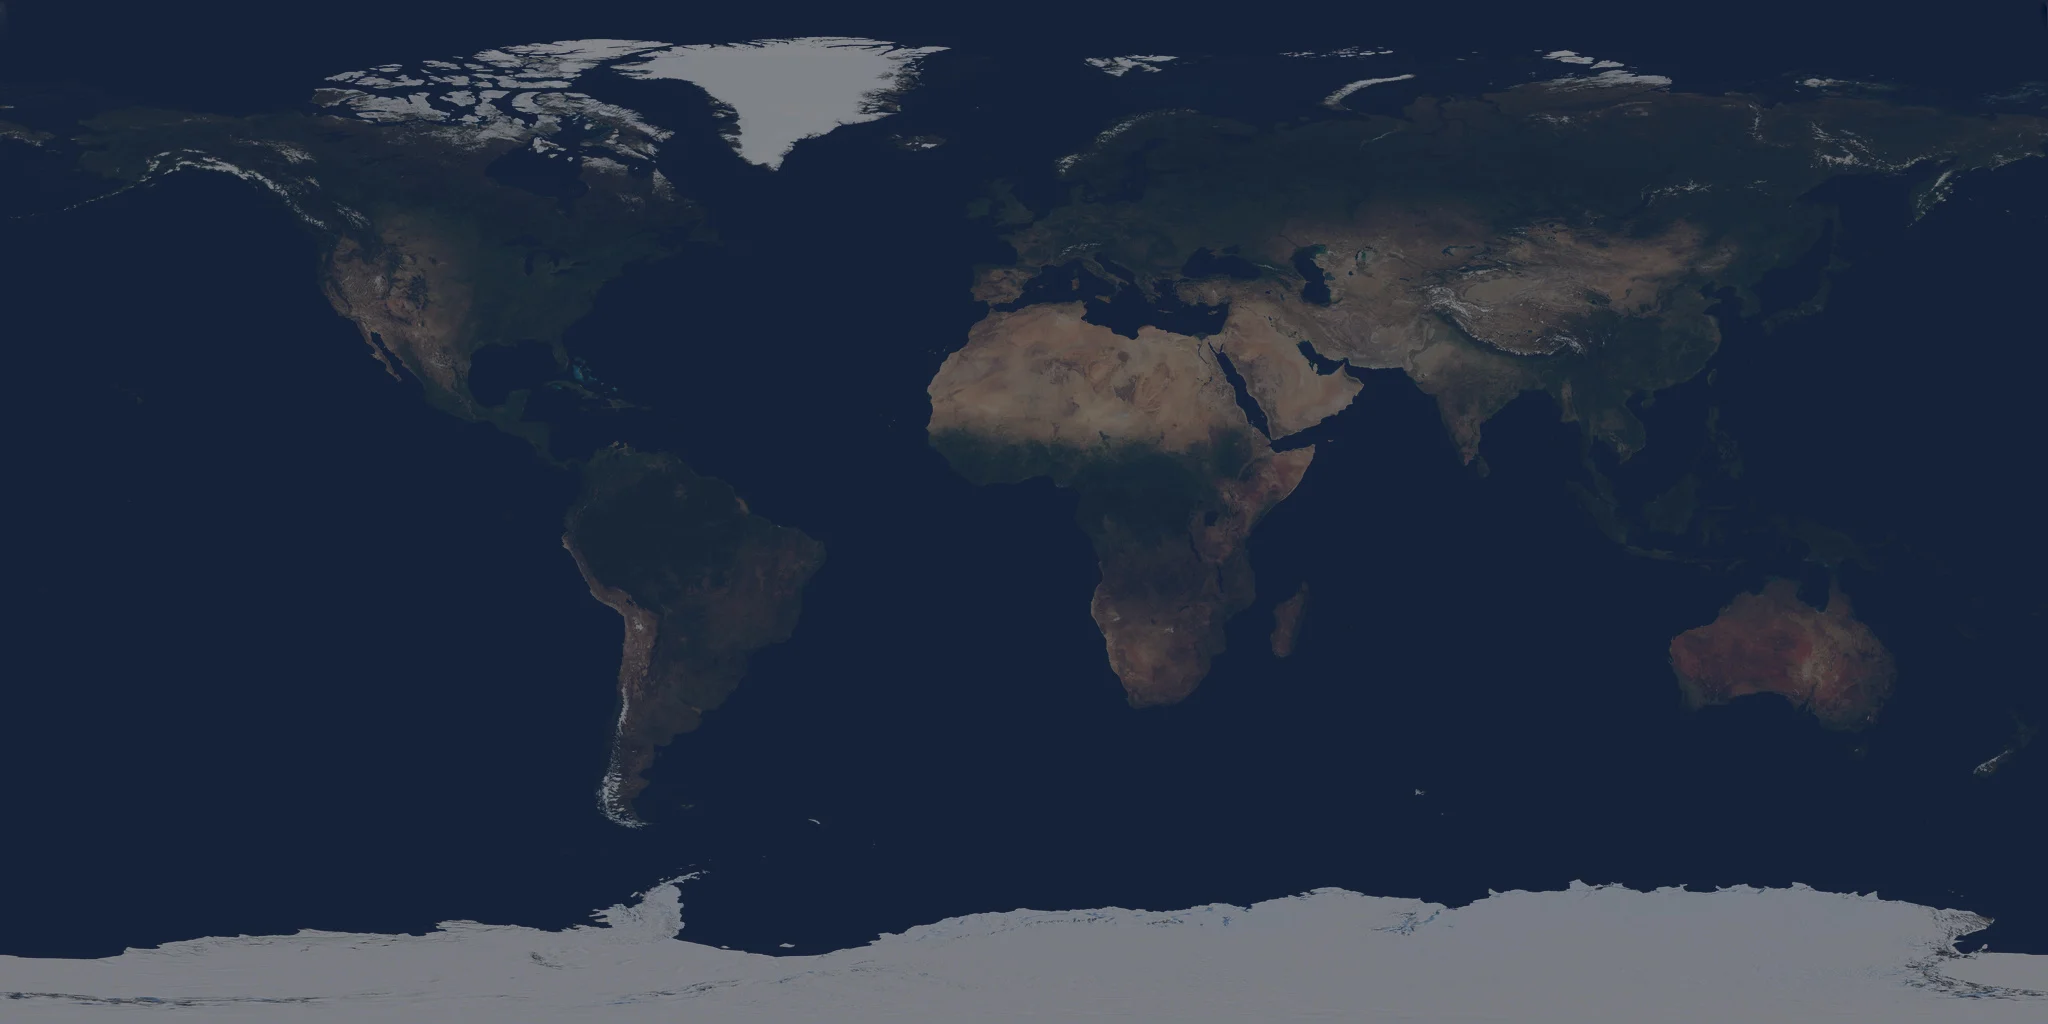
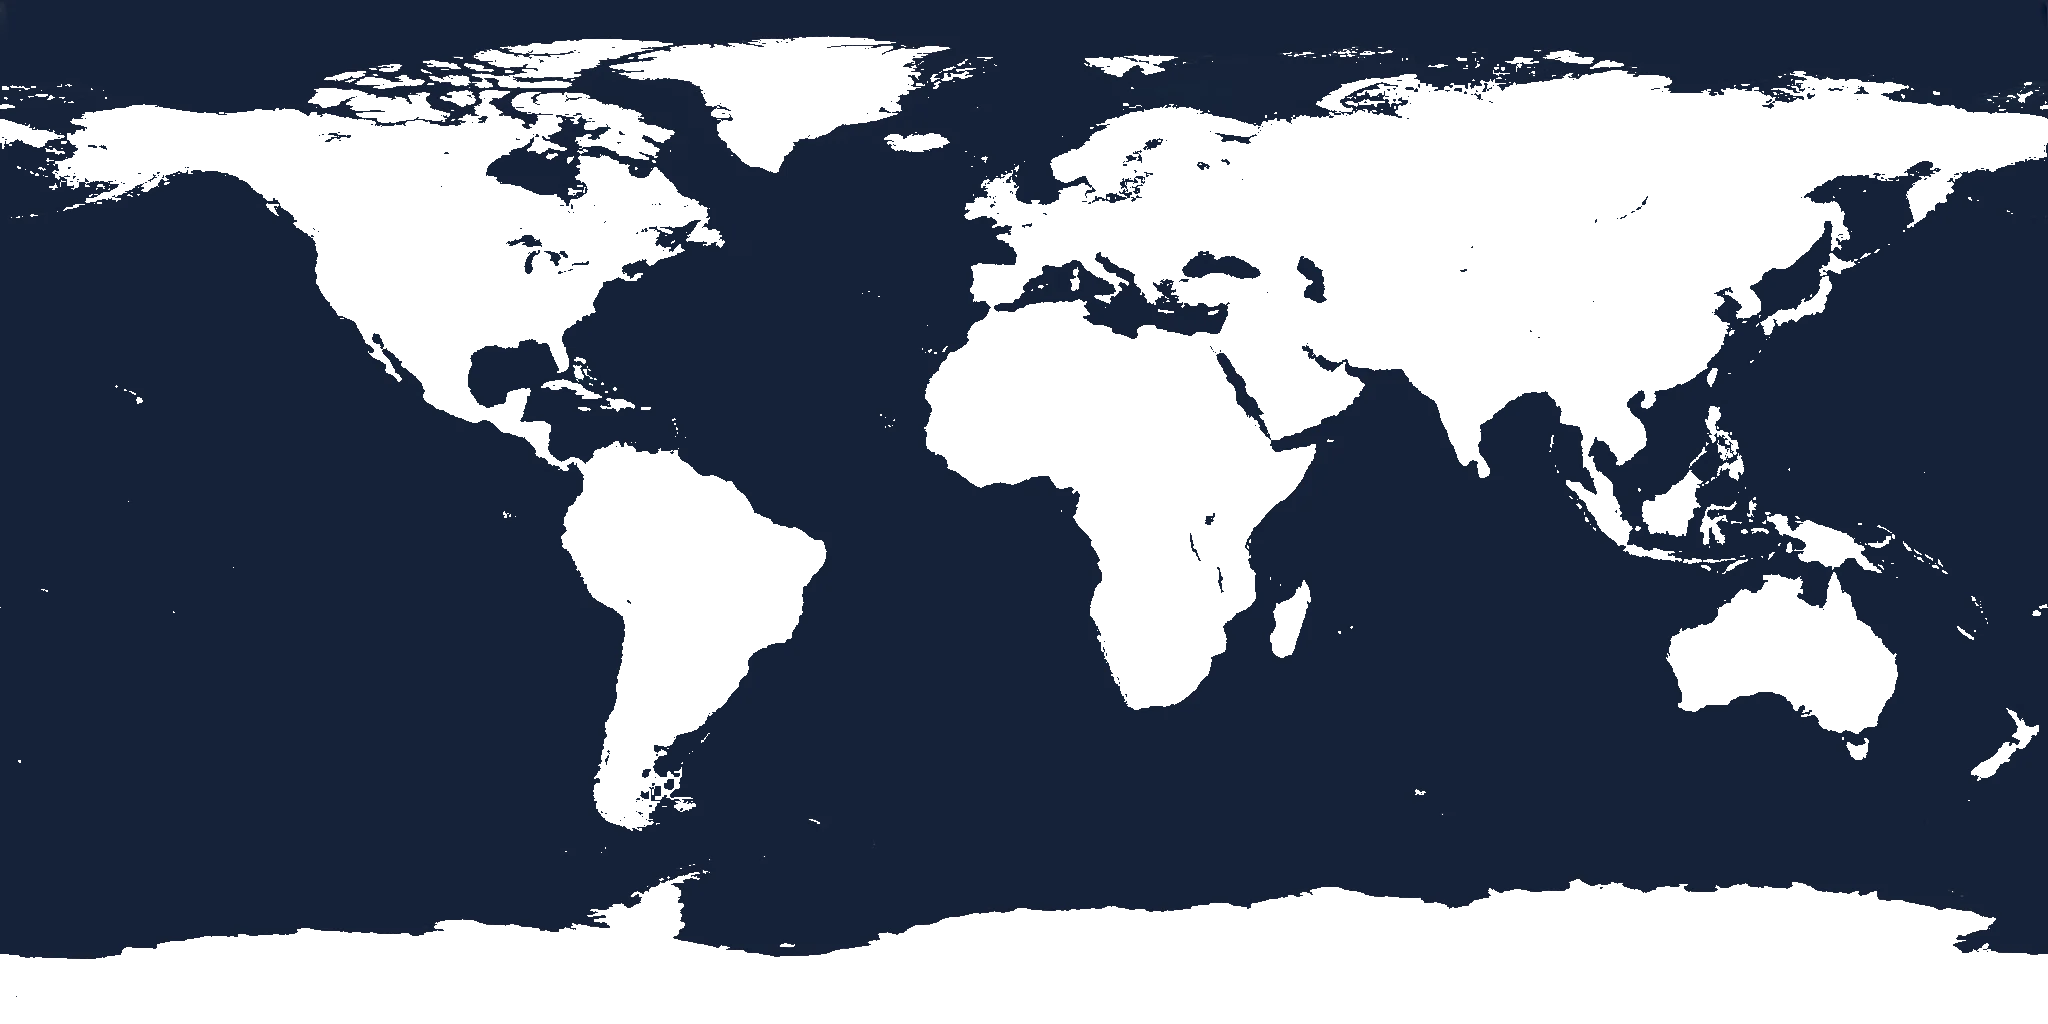
feat(earth): water's F0 and gloss on the sea only, land matte
The whole planet was one MeshStandardMaterial at roughness 0.5 and three's
dielectric F0 0.04, so a broad grey sheen lay over land, ice and sea alike.
Earth is now a MeshPhysicalMaterial at water's ior (F0 0.02) with a hook
(oceanGloss.ts) that mixes roughness 0.4 on the sea (a compact sun-glint) and
0.95 with ior 1.5 on land, by an ocean mask in the Earth map's alpha
(process_body_maps.mjs oceanMask, from the Blue Marble's flat sea colour; no
new texture or fetch). Cloudless disc B/G 1.36 -> 1.52 (Pacific).

One more program (Earth's own; it shared Io's), compiled in the warm-up.

diff --git a/src/components/canvas/oceanGloss.ts b/src/components/canvas/oceanGloss.ts
@@ -1,0 +1,84 @@
+import * as THREE from "three";
+
+/**
+ * Earth's sea as water, its land as every other body's matte (FOLLOW-UPS,
+ * "Earth's ocean sheen"; fixed 2026-10-22). Before this the whole planet was
+ * one MeshStandardMaterial at roughness 0.5: three's dielectric F0 of 0.04 is
+ * twice water's 0.02, and the sea's wind-roughened gloss lay on the land and
+ * the ice too, so a broad grey sheen sat over the lit disc and greyed the
+ * blue (taking it out lifted a cloudless disc's B/G 1.35 → 1.63).
+ *
+ * The ocean mask rides in the Earth map's alpha (process_body_maps.mjs
+ * oceanMask: 1 water, 0 land and ice), so it costs no texture and no fetch:
+ * three already samples the map as `sampledDiffuseColor`. The material is a
+ * MeshPhysicalMaterial at water's ior; this patch mixes, per texel:
+ *  - roughness: SEA_ROUGHNESS on water, LAND_ROUGHNESS (every other body's)
+ *    on land. Cox–Munk's mean-square slope is 0.003 + 0.00512 U (U the wind
+ *    in m/s): 0.4 is GGX α 0.16, the sea at ~4.5 m/s, a little calmer than
+ *    the ~7 m/s mean (0.45). GGX's long tail spreads a lobe wider than
+ *    Cox–Munk's near-Gaussian one, and 0.45–0.5 drew a broad grey haze over
+ *    the disc rather than the compact glint seen from orbit;
+ *  - ior: the material's (water, F0 0.02) on water, 1.5 (three's standard
+ *    dielectric, F0 0.04) on land, so the land draws exactly as before but
+ *    for its roughness.
+ * The sun's glint is then the sea's own GGX lobe at water's F0; F90 stays 1
+ * (specularIntensity 1), so the limb keeps its Fresnel.
+ *
+ * One more program than before: Earth leaves the night-lights program it
+ * shared with Io (a physical material and this hook), compiled at load by
+ * ShaderWarmup like every other (docs/PERF-BUDGETS.md).
+ */
+
+/** Pure water's index of refraction (visible light). */
+export const WATER_IOR = 1.333;
+/** The open sea's roughness: Cox–Munk at ~4.5 m/s (see above). */
+export const SEA_ROUGHNESS = 0.4;
+/** Land and ice: the matte every other body wears (SolarBodies). */
+export const LAND_ROUGHNESS = 0.95;
+/** three's dielectric default: ior 1.5, F0 0.04. */
+const LAND_IOR = 1.5;
+
+/** Normal-incidence Fresnel reflectance of a dielectric of index `ior` in vacuum. */
+export function dielectricF0(ior: number): number {
+  return ((ior - 1) / (ior + 1)) ** 2;
+}
+
+/** The CPU mirror of the patch: roughness and F0 at a texel whose map alpha (water fraction) is `ocean`. */
+export function oceanSurface(ocean: number): { roughness: number; f0: number } {
+  const mix = (a: number, b: number) => a + (b - a) * ocean;
+  return { roughness: mix(LAND_ROUGHNESS, SEA_ROUGHNESS), f0: dielectricF0(mix(LAND_IOR, WATER_IOR)) };
+}
+
+const f = (x: number) => x.toFixed(3);
+const ROUGHNESS_FRAGMENT = /* glsl */ `float oceanMask = sampledDiffuseColor.a;
+float roughnessFactor = mix( ${f(LAND_ROUGHNESS)}, ${f(SEA_ROUGHNESS)}, oceanMask );`;
+const IOR_ANCHOR = "material.ior = ior;";
+const LIGHTS_PHYSICAL_FRAGMENT = THREE.ShaderChunk.lights_physical_fragment.replace(
+  IOR_ANCHOR, `material.ior = mix( ${f(LAND_IOR)}, ior, oceanMask );`);
+
+const defaultCacheKey = THREE.Material.prototype.customProgramCacheKey;
+
+/**
+ * Patches Earth's surface material (a MeshPhysicalMaterial at WATER_IOR whose
+ * map carries the ocean mask in alpha). Composes over an existing compile
+ * hook (patchNightGlow's); call before patchSunShadow, which composes over
+ * this one.
+ */
+export function patchOceanGloss(material: THREE.MeshPhysicalMaterial): void {
+  const prevCompile = material.onBeforeCompile;
+  const prevKeyFn = material.customProgramCacheKey;
+  const prevKey = prevKeyFn === defaultCacheKey ? () => prevCompile.toString() : () => prevKeyFn.call(material);
+  material.onBeforeCompile = function (shader, renderer) {
+    prevCompile.call(this, shader, renderer);
+    const fs = shader.fragmentShader;
+    if (!fs.includes("#include <roughnessmap_fragment>") || !fs.includes("#include <lights_physical_fragment>")
+      || LIGHTS_PHYSICAL_FRAGMENT === THREE.ShaderChunk.lights_physical_fragment) {
+      console.warn("patchOceanGloss: anchors not found; Earth's sea keeps one roughness");
+      return;
+    }
+    shader.fragmentShader = fs
+      .replace("#include <roughnessmap_fragment>", ROUGHNESS_FRAGMENT)
+      .replace("#include <lights_physical_fragment>", LIGHTS_PHYSICAL_FRAGMENT);
+  };
+  material.customProgramCacheKey = () => `${prevKey()}|ocean`;
+}

diff --git a/tests/oceanGloss.test.ts b/tests/oceanGloss.test.ts
@@ -1,0 +1,74 @@
+import { describe, it, expect } from "vitest";
+import * as THREE from "three";
+import { readFileSync } from "node:fs";
+import {
+  LAND_ROUGHNESS, SEA_ROUGHNESS, WATER_IOR, dielectricF0, oceanSurface, patchOceanGloss,
+} from "../src/components/canvas/oceanGloss";
+import { patchNightGlow } from "../src/components/canvas/nightGlow";
+import { patchSunShadow } from "../src/components/canvas/sunShadow";
+
+/** Runs a material's compile hook over three's own physical shader, as the renderer would. */
+function compiled(m: THREE.Material) {
+  const lib = THREE.ShaderLib.physical;
+  const shader = {
+    uniforms: THREE.UniformsUtils.clone(lib.uniforms),
+    vertexShader: lib.vertexShader,
+    fragmentShader: lib.fragmentShader,
+  } as unknown as THREE.WebGLProgramParametersWithUniforms;
+  m.onBeforeCompile(shader, {} as THREE.WebGLRenderer);
+  return shader;
+}
+
+describe("Earth's sea is water and its land is matte (FOLLOW-UPS: the ocean sheen)", () => {
+  it("water's F0 is 0.02 (ior 1.333), against the 0.04 three gives every dielectric", () => {
+    expect(dielectricF0(WATER_IOR)).toBeCloseTo(0.02, 3);
+    expect(dielectricF0(1.5)).toBeCloseTo(0.04, 3);
+  });
+
+  it("the sea keeps a wind-roughened gloss (Cox–Munk at ~4.5 m/s); the land and ice take every body's matte", () => {
+    expect(SEA_ROUGHNESS).toBe(0.4);
+    expect(LAND_ROUGHNESS).toBe(0.95);
+    // The CPU mirror of the shader's mix, over the map's alpha (1 = water).
+    expect(oceanSurface(1)).toEqual({ roughness: SEA_ROUGHNESS, f0: dielectricF0(WATER_IOR) });
+    const land = oceanSurface(0);
+    expect(land.roughness).toBe(LAND_ROUGHNESS);
+    expect(land.f0).toBeCloseTo(0.04, 3);
+  });
+
+  it("reads the mask from the map's alpha: the sea's gloss and water's ior, the land's matte and 0.04", () => {
+    const m = new THREE.MeshPhysicalMaterial({ map: new THREE.Texture(), ior: WATER_IOR });
+    patchOceanGloss(m);
+    const fs = compiled(m).fragmentShader;
+    expect(fs).not.toContain("#include <roughnessmap_fragment>");
+    expect(fs).toMatch(/float oceanMask = sampledDiffuseColor\.a;/);
+    expect(fs).toMatch(/roughnessFactor = mix\( 0\.950*, 0\.40*, oceanMask \)/);
+    // Land keeps three's dielectric 0.04 (ior 1.5); only the sea is water.
+    expect(fs).toMatch(/material\.ior = mix\( 1\.50*, ior, oceanMask \);/);
+    expect(fs).not.toContain("#include <lights_physical_fragment>");
+  });
+
+  it("composes with the night lights and the sun shadow, in Earth's own program (not Io's)", () => {
+    const earth = new THREE.MeshPhysicalMaterial({ map: new THREE.Texture(), ior: WATER_IOR });
+    patchNightGlow(earth);
+    patchOceanGloss(earth);
+    patchSunShadow(earth, "fragment");
+    const fs = compiled(earth).fragmentShader;
+    expect(fs).toContain("uNightEclipse"); // nightGlow ran
+    expect(fs).toContain("uOccluders"); // sunShadow ran
+    expect(fs).toContain("oceanMask");
+    const io = new THREE.MeshStandardMaterial();
+    patchNightGlow(io);
+    patchSunShadow(io, "fragment");
+    expect(earth.customProgramCacheKey()).not.toBe(io.customProgramCacheKey());
+    expect(earth.customProgramCacheKey()).toContain("ocean");
+  });
+
+  it("is how SolarBodies draws Earth: after the night lights, before the sun shadow", () => {
+    const src = readFileSync("src/components/canvas/SolarBodies.tsx", "utf8");
+    expect(src).toMatch(/new THREE\.MeshPhysicalMaterial\(\{ map, ior: WATER_IOR/);
+    const glow = src.indexOf("patchNightGlow(m)"), ocean = src.indexOf("patchOceanGloss(m)"), shadow = src.indexOf("patchSunShadow(m,");
+    expect(glow).toBeGreaterThan(0);
+    expect(ocean).toBeGreaterThan(glow);
+    expect(shadow).toBeGreaterThan(ocean);
+  });
+});

diff --git a/src/components/canvas/SolarBodies.tsx b/src/components/canvas/SolarBodies.tsx
@@ -21,6 +21,7 @@ import { makeBodyRing, makeBodyRingMaterial, makeUranusRingStrip } from "./bodyR
 import { noIbl } from "./noIbl";
 import { guideViewportHeight, RING_NIGHT_FLOOR } from "./guideLine";
 import { patchNightGlow } from "./nightGlow";
+import { patchOceanGloss, SEA_ROUGHNESS, WATER_IOR } from "./oceanGloss";
 import { OCCLUDER_COUNT, patchSunShadow, sunShadowDebug, sunShadowUniforms } from "./sunShadow";
 
 /**
@@ -155,19 +156,21 @@ export default function SolarBodies() {
   // over the shadow patch. Fragment mode skips each body's own sphere by
   // distance, so all share the same programs.
   const materials = useMemo(() => SOLAR_BODIES.map((b) => {
-    const m = new THREE.MeshStandardMaterial({
-      map: textures[MAPS.indexOf(b.map)],
-      // Earth takes a sheen for its oceans (0.5, as before); every other surface is matte.
-      roughness: b.id === "earth" ? 0.5 : 0.95, metalness: 0,
-    });
+    const map = textures[MAPS.indexOf(b.map)];
+    // Every surface is matte but Earth's sea: water's F0 and its gloss where
+    // the map's alpha says ocean (oceanGloss.ts), its own physical program.
+    const m = b.id === "earth"
+      ? new THREE.MeshPhysicalMaterial({ map, ior: WATER_IOR, roughness: SEA_ROUGHNESS, metalness: 0 })
+      : new THREE.MeshStandardMaterial({ map, roughness: 0.95, metalness: 0 });
     m.color.copy(bodyColor(b));
     if (b.look.nightLights) {
-      // City lights on the night side only (nightGlow.ts; Io's hot spots share the program).
+      // City lights on the night side only (nightGlow.ts; Io's hot spots share the hook, not Earth's physical program).
       m.emissiveMap = textures[TEX_NIGHT];
       m.emissive.set("#ffd9a0");
       m.emissiveIntensity = 1.4;
       patchNightGlow(m);
     }
+    if (m instanceof THREE.MeshPhysicalMaterial) patchOceanGloss(m);
     // Saturn also takes its rings' shadow: one more program, its own.
     patchSunShadow(m, "fragment", b.look.rings === "saturn"
       ? { ringShadow: { normal: saturnRingNormal, inner: RING_INNER, outer: RING_OUTER, map: ringMap } }

diff --git a/tests/bodyMaps.test.ts b/tests/bodyMaps.test.ts
@@ -221,6 +221,30 @@ describe("Earth: blue oceans under white clouds, as from space", () => {
     expect(hueOf(m)).toBeLessThanOrEqual(250);
     expect(m[2] / m[1]).toBeGreaterThanOrEqual(1.0);
   }, 30_000);
+
+  // The ocean mask rides in the map's alpha (process_body_maps.mjs
+  // oceanMask): SolarBodies reads it for the sea's gloss and water's F0, so
+  // the land stays matte. Open water is 1, land and ice 0, the coasts soft.
+  for (const name of [EARTH.map, `${EARTH.map}_4k`]) {
+    it(`${name}.webp carries the ocean mask in its alpha: the seas are water, the land and ice are not`, async () => {
+      const { data, w, h, ch } = await raw(name);
+      expect(ch).toBe(4);
+      const at = (lon: number, lat: number) => {
+        const x = Math.min(w - 1, Math.floor(((lon + 180) / 360) * w)), y = Math.min(h - 1, Math.floor(((90 - lat) / 180) * h));
+        return data[(y * w + x) * ch + 3] / 255;
+      };
+      const seas = { pacific: [-150, 0], atlantic: [-30, 0], indian: [75, -20], mediterranean: [18, 35], caspian: [51, 42], "lake superior": [-88, 47.6] };
+      const lands = { sahara: [10, 23], amazon: [-60, -5], siberia: [100, 62], himalaya: [85, 30], greenland: [-40, 72], antarctica: [0, -85] };
+      for (const [k, [lon, lat]] of Object.entries(seas)) expect(at(lon, lat), k).toBeGreaterThan(0.95);
+      for (const [k, [lon, lat]] of Object.entries(lands)) expect(at(lon, lat), k).toBeLessThan(0.05);
+      // Earth is 71% water by area; on the equirect texel grid (poles
+      // stretched: Antarctica's land, the Arctic's sea) it reads ~0.64.
+      let water = 0;
+      for (let k = 0; k < w * h; k++) water += data[k * ch + 3] / 255;
+      expect(water / (w * h)).toBeGreaterThan(0.6);
+      expect(water / (w * h)).toBeLessThan(0.7);
+    }, 30_000);
+  }
 });
 
 describe("maps: shape, seam and poles", () => {

diff --git a/src/components/canvas/nightGlow.ts b/src/components/canvas/nightGlow.ts
@@ -14,7 +14,9 @@ import { sunShadowUniforms } from "./sunShadow";
  * sunShadow.ts's uSunView, which the shadow patch refreshes from the camera
  * before every draw, so a night-glow material must also be patched by
  * patchSunShadow (after this). One compile hook for every such material, so
- * Earth and Io share one program; each keeps its own eclipse uniform.
+ * materials of one type share one program, each with its own eclipse
+ * uniform (Earth is a physical material with its sea gloss since PR 46,
+ * oceanGloss.ts, so it no longer shares Io's).
  */
 
 /** The fragment chunk that replaces `#include <emissivemap_fragment>`. nightGlowFactor mirrors it. */
